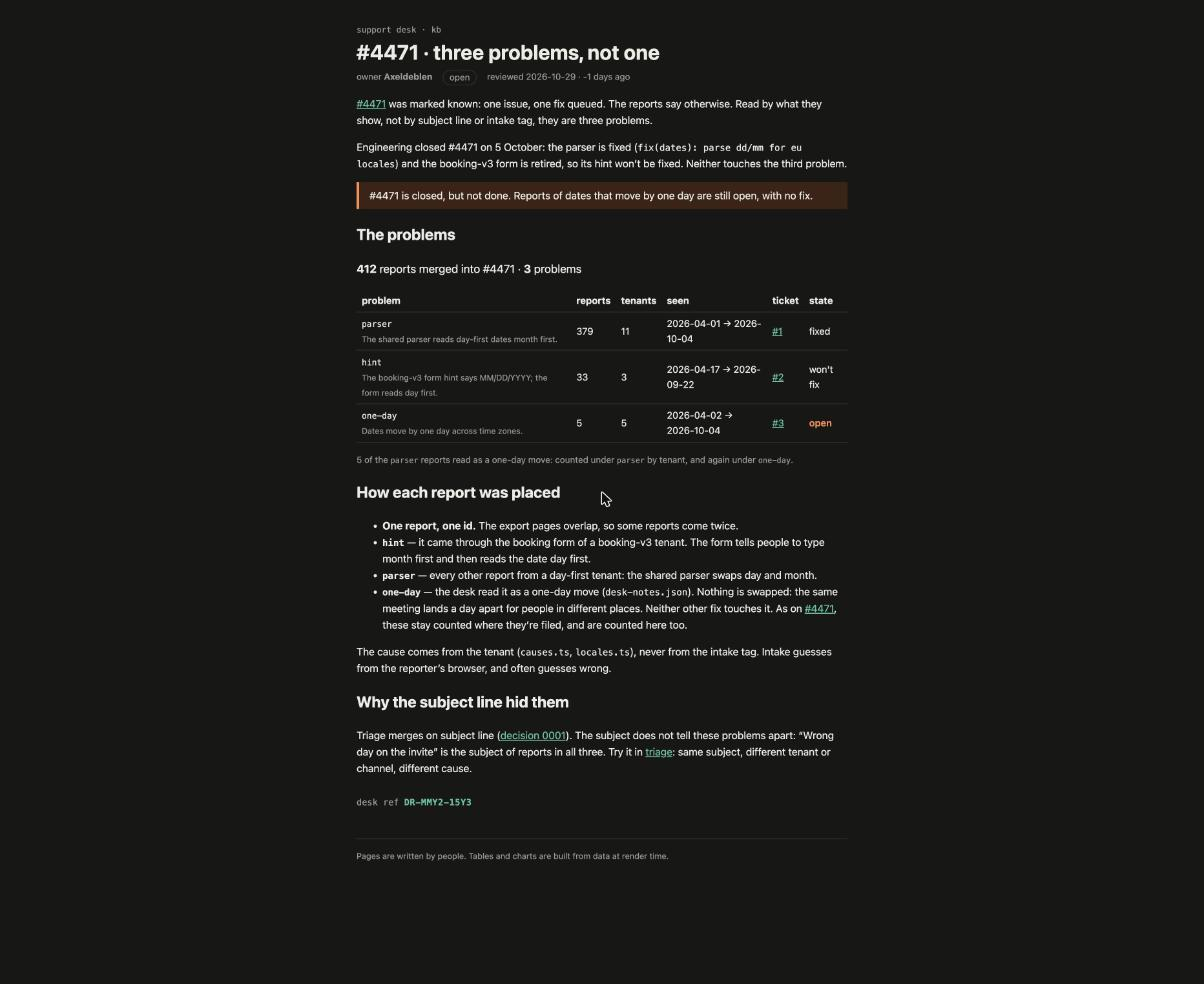
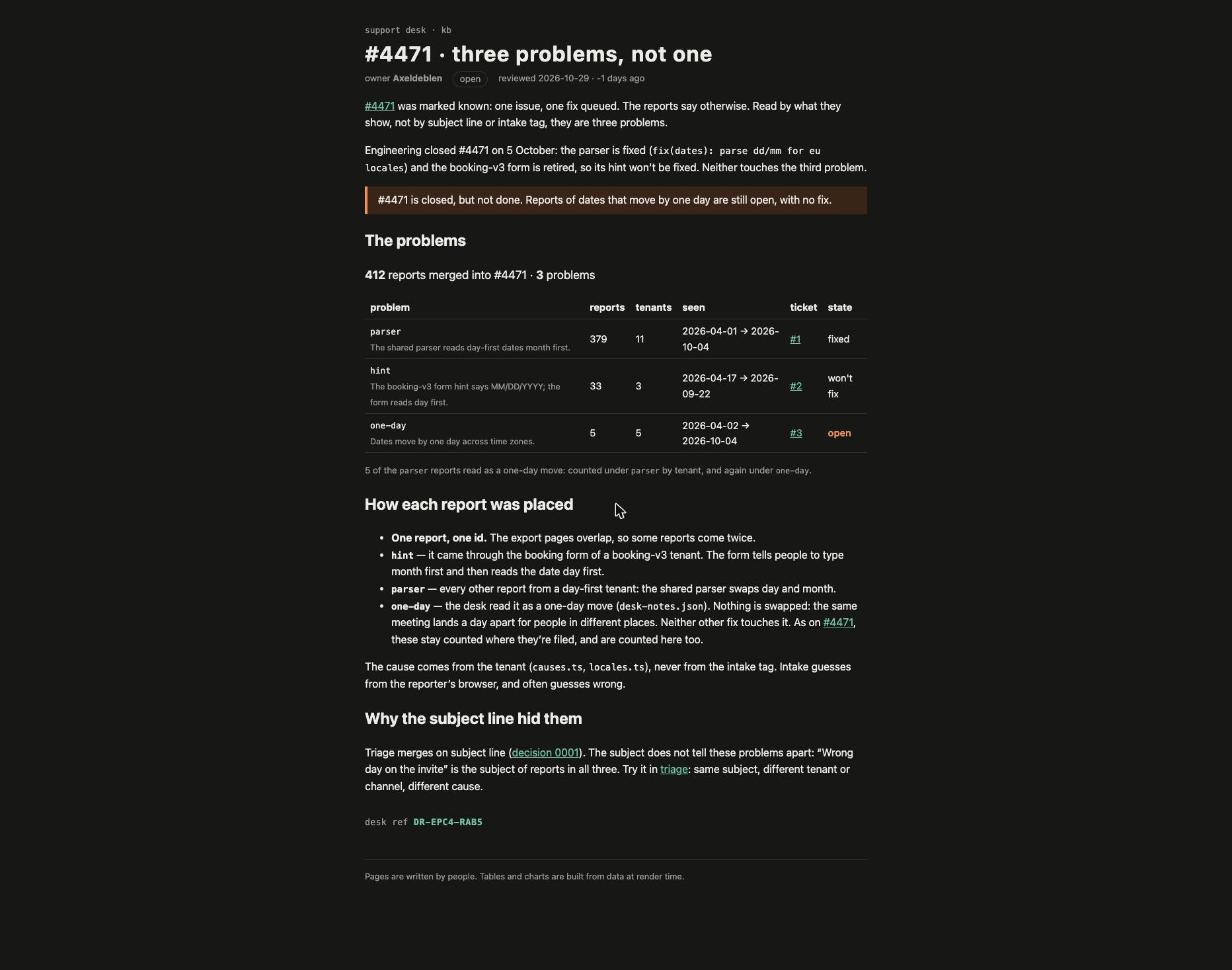
kb: sign the #4471 problems page with the course ticket (desk ref DR-EPC4-RAB5)

Changed region(s): [[0.2766, 0.0309, 0.7068, 0.9278]]

diff --git a/rendered/_app/immutable/chunks/CenRxE12.js b/rendered/_app/immutable/chunks/CenRxE12.js
@@ -1,0 +1,9 @@
+import{t as e}from"./DK3Fl9T5.js";import{E as t,F as n,H as r,I as i,K as a,L as o,N as s,O as c,R as l,S as u,T as d,U as f,W as p,_ as m,c as h,d as g,h as _,k as v,q as y,r as b,t as x,w as S}from"./BCPXOG7W.js";import{t as C}from"./BTPwLomz.js";import{n as w,t as T}from"./CVBzP17p.js";import{a as E,l as D,o as O,r as k,t as A}from"./BIy4WKJS.js";var j=t(`<br/><span class="what svelte-1op6c6"> </span>`,1),M=t(`<a> </a>`),N=t(`<tr><td class="svelte-1op6c6"><code> </code><!></td><td class="svelte-1op6c6"> </td><td class="svelte-1op6c6"> </td><td class="svelte-1op6c6"> </td><td class="svelte-1op6c6"><!></td><td> </td></tr>`),P=t(`<p class="note svelte-1op6c6"> <code> </code> reports read as a one-day move: counted under <code> </code> by tenant, and again under <code>one-day</code>.</p>`),F=t(`<p class="sum svelte-1op6c6"><strong> </strong> <strong> </strong> problems</p> <table><thead><tr><th>problem</th><th>reports</th><th>tenants</th><th>seen</th><th>ticket</th><th>state</th></tr></thead><tbody></tbody></table> <!>`,1);function I(e,t){p(t,!0);let b=r(()=>D(w).filter(e=>e.mergedInto===t.ticket)),x=r(()=>E(v(b),k)),C=r(()=>v(b).filter(e=>T.oneDayMove.includes(e.id))),A=r(()=>[...v(x).map(e=>({key:e.cause,reports:e.reports,oneDay:O(e,T.oneDayMove)})),{key:`one-day`,reports:v(C),oneDay:0}].filter(e=>e.reports.length).map(e=>{let n=e.reports.map(e=>e.receivedAt.slice(0,10)).sort();return{...e,p:t.problems.find(t=>t.key===e.key),tenants:new Set(e.reports.map(e=>e.tenant)).size,seen:`${n[0]} → ${n[n.length-1]}`}}));var I=F(),L=i(I),R=n(L),z=o(R,!0),B=l(R),V=l(B),H=o(V,!0);a(),y(L);var U=l(L,2),W=l(n(U));_(W,21,()=>v(A),e=>e.key,(e,t)=>{var r=N();let a;var d=n(r),f=n(d),p=o(f,!0),_=l(f),b=e=>{var n=j(),r=l(i(n)),a=o(r,!0);s(()=>u(a,v(t).p.what)),S(e,n)};m(_,e=>{v(t).p&&e(b)}),y(d);var x=l(d),C=o(x,!0),w=l(x),T=o(w,!0),E=l(w),D=o(E,!0),O=l(E),k=n(O),A=e=>{var n=M(),r=o(n,!0);s(e=>{h(n,`href`,v(t).p.issue),u(r,e)},[()=>v(t).p.issue.replace(/^.*\/issues\//,`#`)]),S(e,n)},P=e=>{var t=c(`no ticket yet`);S(e,t)};m(k,e=>{v(t).p?e(A):e(P,-1)}),y(O);var F=l(O);let I;var L=o(F,!0);y(r),s(()=>{a=g(r,1,`svelte-1op6c6`,null,a,{wrong:!v(t).p}),u(p,v(t).key),u(C,v(t).reports.length),u(T,v(t).tenants),u(D,v(t).seen),I=g(F,1,`svelte-1op6c6`,null,I,{open:v(t).p?.state===`open`}),u(L,v(t).p?.state??`—`)}),S(e,r)}),y(W),y(U);var G=l(U,2);_(G,17,()=>v(A),e=>e.key,(e,t)=>{var r=d(),c=i(r),f=e=>{var r=P(),i=n(r),c=l(i),d=o(c,!0),f=l(c,2),p=o(f,!0);a(3),y(r),s(()=>{u(i,`${v(t).oneDay??``} of the `),u(d,v(t).key),u(p,v(t).key)}),S(e,r)};m(c,e=>{v(t).oneDay&&e(f)}),S(e,r)}),s(()=>{u(z,v(b).length),u(B,` reports merged into #${t.ticket??``} · `),u(H,v(A).length)}),S(e,I),f()}var L=`0123456789ABCDEFGHJKMNPQRSTVWXYZ`;function R(e,t){let n=t>>>0;for(let t=0;t<e.length;t++)n^=e.charCodeAt(t),n=Math.imul(n,16777619)>>>0;return n}function z(e){let t=e.trim(),n=R(t,2166136261),r=R(t,2654435769),i=BigInt(n)<<8n|BigInt(r&255),a=``;for(let e=0;e<8;e++)a=L[Number(i&31n)]+a,i>>=5n;return`DR-${a.slice(0,4)}-${a.slice(4)}`}var B=t(`<p class="stamp svelte-1280m42">desk ref <b class="svelte-1280m42"> </b></p>`),V=t(`<p class="stamp missing svelte-1280m42">no desk ref: this page isn't signed (no <code>signature</code> in its frontmatter)</p>`);function H(e,t){p(t,!0);let a=r(()=>t.signature?z(t.signature):null);var c=d(),h=i(c),g=e=>{var t=B(),r=l(n(t)),i=o(r,!0);y(t),s(()=>u(i,v(a))),S(e,t)},_=e=>{var t=V();S(e,t)};m(h,e=>{v(a)?e(g):e(_,-1)}),S(e,c),f()}var U=e({default:()=>Q,metadata:()=>W}),W={layout:`runbook`,title:`#4471 · three problems, not one`,owner:`Axeldeblen`,status:`open`,reviewed:`2026-10-29T00:00:00.000Z`,signature:`v1.eyJzdWIiOiIyMzk1IiwiYXVkIjoiY2hhbGxlbmdlOndoYXQtaXQtc2hvd3MiLCJpYXQiOjE3OTMyMzA0MTcsImV4cCI6MTc5MzMxNjgxN30.wcQaKfctXSHnE9Sd726RsK7yAuSPlu7xaOLoRTOZqTc`},{layout:G,title:K,owner:q,status:J,reviewed:Y,signature:X}=W,Z=t(`<p><a href="/kb/incidents/4471">#4471</a> was marked known: one issue, one fix queued. The reports say otherwise.
+Read by what they show, not by subject line or intake tag, they are three problems.</p> <p>Engineering closed #4471 on 5 October: the parser is fixed (<code>fix(dates): parse dd/mm for eu locales</code>)
+and the booking-v3 form is retired, so its hint won’t be fixed. Neither touches the third problem.</p> <!> <h2>The problems</h2> <!> <h2>How each report was placed</h2> <ul><li><strong>One report, one id.</strong> The export pages overlap, so some reports come twice.</li> <li><strong><code>hint</code></strong> — it came through the booking form of a booking-v3 tenant. The form tells people to
+type month first and then reads the date day first.</li> <li><strong><code>parser</code></strong> — every other report from a day-first tenant: the shared parser swaps day and month.</li> <li><strong><code>one-day</code></strong> — the desk read it as a one-day move (<code>desk-notes.json</code>). Nothing is swapped: the
+same meeting lands a day apart for people in different places. Neither other fix touches it.
+As on <a href="/kb/incidents/4471">#4471</a>, these stay counted where they’re filed, and are counted here too.</li></ul> <p>The cause comes from the tenant (<code>causes.ts</code>, <code>locales.ts</code>), never from the intake tag. Intake
+guesses from the reporter’s browser, and often guesses wrong.</p> <h2>Why the subject line hid them</h2> <p>Triage merges on subject line (<a href="/kb/decisions/0001-dedupe-by-subject">decision 0001</a>). The subject
+does not tell these problems apart: “Wrong day on the invite” is the subject of reports in all three.
+Try it in <a href="/kb/triage/dedupe">triage</a>: same subject, different tenant or channel, different cause.</p> <!>`,1);function Q(e,t){let n=x(t,[`children`,`$$slots`,`$$events`,`$$legacy`]),r=`https://github.com/Axeldeblen/support-kb/issues`,o=[{key:`parser`,what:`The shared parser reads day-first dates month first.`,issue:`${r}/1`,state:`fixed`},{key:`hint`,what:`The booking-v3 form hint says MM/DD/YYYY; the form reads day first.`,issue:`${r}/2`,state:`won't fix`},{key:`one-day`,what:`Dates move by one day across time zones.`,issue:`${r}/3`,state:`open`}];C(e,b(()=>n,()=>W,{children:(e,t)=>{var n=Z(),r=l(i(n),4);A(r,{kind:`warn`,children:(e,t)=>{a();var n=c(`#4471 is closed, but not done. Reports of dates that move by one day are still open, with no fix.`);S(e,n)},$$slots:{default:!0}});var s=l(r,4);I(s,{ticket:4471,get problems(){return o}}),H(l(s,12),{get signature(){return X}}),S(e,n)},$$slots:{default:!0}}))}export{Q as n,U as t};

diff --git a/rendered/kb/incidents/4471/problems.html b/rendered/kb/incidents/4471/problems.html
@@ -9,11 +9,11 @@
 		<link href="../../../_app/immutable/chunks/B2Ul7l_u.js" rel="modulepreload">
 		<link href="../../../_app/immutable/chunks/BCPXOG7W.js" rel="modulepreload">
 		<link href="../../../_app/immutable/chunks/Dh1V97Jm.js" rel="modulepreload">
-		<link href="../../../_app/immutable/entry/app.CIcHf3q1.js" rel="modulepreload">
+		<link href="../../../_app/immutable/entry/app.BDaEtDko.js" rel="modulepreload">
 		<link href="../../../_app/immutable/nodes/0.C9KfiiPz.js" rel="modulepreload">
 		<link href="../../../_app/immutable/chunks/DK3Fl9T5.js" rel="modulepreload">
-		<link href="../../../_app/immutable/nodes/5.BM7tbsJA.js" rel="modulepreload">
-		<link href="../../../_app/immutable/chunks/B9Pfebdu.js" rel="modulepreload">
+		<link href="../../../_app/immutable/nodes/5.CdP6rVZZ.js" rel="modulepreload">
+		<link href="../../../_app/immutable/chunks/CenRxE12.js" rel="modulepreload">
 		<link href="../../../_app/immutable/chunks/BTPwLomz.js" rel="modulepreload">
 		<link href="../../../_app/immutable/chunks/CVBzP17p.js" rel="modulepreload">
 		<link href="../../../_app/immutable/chunks/BIy4WKJS.js" rel="modulepreload">
@@ -31,20 +31,20 @@ same meeting lands a day apart for people in different places. Neither other fix
 As on <a href="/kb/incidents/4471">#4471</a>, these stay counted where they’re filed, and are counted here too.</li></ul> <p>The cause comes from the tenant (<code>causes.ts</code>, <code>locales.ts</code>), never from the intake tag. Intake
 guesses from the reporter’s browser, and often guesses wrong.</p> <h2>Why the subject line hid them</h2> <p>Triage merges on subject line (<a href="/kb/decisions/0001-dedupe-by-subject">decision 0001</a>). The subject
 does not tell these problems apart: “Wrong day on the invite” is the subject of reports in all three.
-Try it in <a href="/kb/triage/dedupe">triage</a>: same subject, different tenant or channel, different cause.</p> <!--[0--><p class="stamp svelte-1280m42">desk ref <b class="svelte-1280m42">DR-MMY2-15Y3</b></p><!--]--><!----><!----></main> <footer class="svelte-e2jw2j">Pages are written by people. Tables and charts are built from data at render time.</footer></div><!--]--><!--]--><!--]--><!----><!--]--><!--]--><!--]--><!----> <!--[-1--><!--]--><!--]-->
+Try it in <a href="/kb/triage/dedupe">triage</a>: same subject, different tenant or channel, different cause.</p> <!--[0--><p class="stamp svelte-1280m42">desk ref <b class="svelte-1280m42">DR-EPC4-RAB5</b></p><!--]--><!----><!----></main> <footer class="svelte-e2jw2j">Pages are written by people. Tables and charts are built from data at render time.</footer></div><!--]--><!--]--><!--]--><!----><!--]--><!--]--><!--]--><!----> <!--[-1--><!--]--><!--]-->
 			
 			<script>
 				{
-					__sveltekit_qeupu9 = {
+					__sveltekit_1n8bwxp = {
 						base: new URL("../../..", location).pathname.slice(0, -1),
-						version: "1793230388486"
+						version: "1793230424007"
 					};
 
 					const element = document.currentScript.parentElement;
 
 					import("../../../_app/immutable/entry/start.CH5w6lId.js").then(async (kit) => {
-						kit.init(__sveltekit_qeupu9);
-						const app = await import("../../../_app/immutable/entry/app.CIcHf3q1.js");
+						kit.init(__sveltekit_1n8bwxp);
+						const app = await import("../../../_app/immutable/entry/app.BDaEtDko.js");
 						kit.start(app, element, {
 							node_ids: [0, 5],
 							data: [null,null],

diff --git a/rendered/_app/immutable/nodes/2.DCALvZaA.js b/rendered/_app/immutable/nodes/2.DCALvZaA.js
@@ -1,0 +1,2 @@
+import{E as e,F as t,I as n,K as r,L as i,N as a,R as o,S as s,U as c,W as l,c as u,d,h as f,i as p,k as m,q as h,r as g,t as _,w as v}from"../chunks/BCPXOG7W.js";import{n as y,r as b,t as x}from"../chunks/BTPwLomz.js";import{t as S}from"../chunks/YX22L_Ud.js";import{t as C}from"../chunks/CgeRC4yK.js";import{t as w}from"../chunks/CenRxE12.js";import{t as T}from"../chunks/BGqJVSDw.js";var E=e(`<tr><td><a> </a></td><td> </td><td> </td><td> </td></tr>`),D=e(`<table><thead><tr><th>page</th><th>owner</th><th>status</th><th>reviewed</th></tr></thead><tbody></tbody></table>`);function O(e,n){l(n,!1);let r=Object.entries(Object.assign({"/src/routes/kb/decisions/0001-dedupe-by-subject/+page.svx":S,"/src/routes/kb/incidents/4471/+page.svx":C,"/src/routes/kb/incidents/4471/problems/+page.svx":w,"/src/routes/kb/triage/dedupe/+page.svx":T})).map(([e,t])=>({href:e.replace(`/src/routes`,``).replace(`/+page.svx`,``),...t.metadata})).sort((e,t)=>e.href.localeCompare(t.href));p();var g=D(),_=o(t(g));f(_,5,()=>r,e=>e.href,(e,n)=>{var r=E(),c=t(r),l=t(c),f=i(l,!0);h(c);var p=o(c),g=i(p,!0),_=o(p),x=i(_,!0),S=o(_);let C;var w=i(S,!0);h(r),a((e,t)=>{u(l,`href`,m(n).href),s(f,m(n).title),s(g,m(n).owner),s(x,m(n).status),C=d(S,1,`svelte-tbc1ha`,null,C,{stale:e}),s(w,t)},[()=>y(m(n).reviewed)>180,()=>b(m(n).reviewed)]),v(e,r)}),h(_),h(g),v(e,g),c()}var k={layout:`runbook`,title:`Support knowledge base`,owner:`support desk`,status:`living`,reviewed:`2026-09-28T00:00:00.000Z`},{layout:A,title:j,owner:M,status:N,reviewed:P}=k,F=e(`<p>What the support desk knows, kept next to the code that knows it. One desk, every product: <code>sched-prod</code> (calendar invites for about 300k people) and the rest. When something breaks, the reports land here first.</p> <p>Start with <a href="/kb/triage/dedupe">triage</a> if you are new on the desk.</p> <h2>Pages</h2> <!> <h2>Writing a page</h2> <p>Keep the words here and the logic in <code>src/lib</code>. A number that can be computed should be
+computed by a component, not typed into a paragraph.</p>`,1);function I(e,t){let i=_(t,[`children`,`$$slots`,`$$events`,`$$legacy`]);x(e,g(()=>i,()=>k,{children:(e,t)=>{var i=F();O(o(n(i),6),{}),r(4),v(e,i)},$$slots:{default:!0}}))}export{I as component};

diff --git a/rendered/kb.html b/rendered/kb.html
@@ -9,16 +9,16 @@
 		<link href="./_app/immutable/chunks/B2Ul7l_u.js" rel="modulepreload">
 		<link href="./_app/immutable/chunks/BCPXOG7W.js" rel="modulepreload">
 		<link href="./_app/immutable/chunks/Dh1V97Jm.js" rel="modulepreload">
-		<link href="./_app/immutable/entry/app.CIcHf3q1.js" rel="modulepreload">
+		<link href="./_app/immutable/entry/app.BDaEtDko.js" rel="modulepreload">
 		<link href="./_app/immutable/nodes/0.C9KfiiPz.js" rel="modulepreload">
 		<link href="./_app/immutable/chunks/DK3Fl9T5.js" rel="modulepreload">
-		<link href="./_app/immutable/nodes/2.BI59qGlX.js" rel="modulepreload">
+		<link href="./_app/immutable/nodes/2.DCALvZaA.js" rel="modulepreload">
 		<link href="./_app/immutable/chunks/BTPwLomz.js" rel="modulepreload">
 		<link href="./_app/immutable/chunks/YX22L_Ud.js" rel="modulepreload">
 		<link href="./_app/immutable/chunks/CgeRC4yK.js" rel="modulepreload">
 		<link href="./_app/immutable/chunks/CVBzP17p.js" rel="modulepreload">
 		<link href="./_app/immutable/chunks/BIy4WKJS.js" rel="modulepreload">
-		<link href="./_app/immutable/chunks/B9Pfebdu.js" rel="modulepreload">
+		<link href="./_app/immutable/chunks/CenRxE12.js" rel="modulepreload">
 		<link href="./_app/immutable/chunks/BGqJVSDw.js" rel="modulepreload">
 		<!--e2jw2j--><!----><title>Support knowledge base · support kb</title>
 		<link href="./_app/immutable/assets/runbook.COyw0cbZ.css" rel="stylesheet">
@@ -34,16 +34,16 @@ computed by a component, not typed into a paragraph.</p><!----></main> <footer c
 			
 			<script>
 				{
-					__sveltekit_qeupu9 = {
+					__sveltekit_1n8bwxp = {
 						base: new URL(".", location).pathname.slice(0, -1),
-						version: "1793230388486"
+						version: "1793230424007"
 					};
 
 					const element = document.currentScript.parentElement;
 
 					import("./_app/immutable/entry/start.CH5w6lId.js").then(async (kit) => {
-						kit.init(__sveltekit_qeupu9);
-						const app = await import("./_app/immutable/entry/app.CIcHf3q1.js");
+						kit.init(__sveltekit_1n8bwxp);
+						const app = await import("./_app/immutable/entry/app.BDaEtDko.js");
 						kit.start(app, element, {
 							node_ids: [0, 2],
 							data: [null,null],

diff --git a/rendered/_app/immutable/entry/app.BDaEtDko.js b/rendered/_app/immutable/entry/app.BDaEtDko.js
@@ -1,0 +1,2 @@
+const __vite__mapDeps=(i,m=__vite__mapDeps,d=(m.f||(m.f=["../nodes/0.C9KfiiPz.js","../chunks/DK3Fl9T5.js","../chunks/BCPXOG7W.js","../nodes/1.mOwa9YdW.js","../chunks/Dh1V97Jm.js","./payload.DSmR2FwN.js","../nodes/2.DCALvZaA.js","../chunks/BTPwLomz.js","../assets/runbook.COyw0cbZ.css","../chunks/YX22L_Ud.js","../chunks/CgeRC4yK.js","../chunks/CVBzP17p.js","../chunks/BIy4WKJS.js","../assets/Callout.AbLv9dM_.css","../assets/_page.D56XP2ro.css","../chunks/CenRxE12.js","../assets/_page.Cy8jpuGD.css","../chunks/BGqJVSDw.js","../assets/_page.DO6Yid7X.css","../assets/2.Bt0MwIZg.css","../nodes/3.DRxPfvn3.js","../nodes/4.rt2PfD_4.js","../nodes/5.CdP6rVZZ.js","../nodes/6.sFtxrtyV.js"])))=>i.map(i=>d[i]);
+import{t as e}from"../chunks/CRzLMJPS.js";var t={},n=[()=>e(()=>import(`../nodes/0.C9KfiiPz.js`),__vite__mapDeps([0,1,2]),import.meta.url),()=>e(()=>import(`../nodes/1.mOwa9YdW.js`),__vite__mapDeps([3,2,4,5]),import.meta.url),()=>e(()=>import(`../nodes/2.DCALvZaA.js`),__vite__mapDeps([6,2,7,8,9,1,10,11,12,13,14,15,16,17,18,19]),import.meta.url),()=>e(()=>import(`../nodes/3.DRxPfvn3.js`),__vite__mapDeps([20,9,1,2,7,8]),import.meta.url),()=>e(()=>import(`../nodes/4.rt2PfD_4.js`),__vite__mapDeps([21,10,1,2,7,8,11,12,13,14]),import.meta.url),()=>e(()=>import(`../nodes/5.CdP6rVZZ.js`),__vite__mapDeps([22,15,1,2,7,8,11,12,13,16]),import.meta.url),()=>e(()=>import(`../nodes/6.sFtxrtyV.js`),__vite__mapDeps([23,17,1,2,7,8,12,13,18]),import.meta.url)],r=[],i={"/kb":[2],"/kb/decisions/0001-dedupe-by-subject":[3],"/kb/incidents/4471":[4],"/kb/incidents/4471/problems":[5],"/kb/triage/dedupe":[6]},a={handleError:(({kind:e,error:t})=>{e===`unknown`&&console.error(t)}),reroute:(()=>{}),transport:{}},o=Object.fromEntries(Object.entries(a.transport).map(([e,t])=>[e,t.decode])),s=Object.fromEntries(Object.entries(a.transport).map(([e,t])=>[e,t.encode])),c=!1,l=(e,t)=>o[e](t),u=()=>e(()=>import(`../chunks/Bjy-W4x2.js`).then(e=>e.default),[],import.meta.url);export{l as decode,o as decoders,i as dictionary,s as encoders,u as get_error_template,c as hash,a as hooks,t as matchers,n as nodes,r as server_loads};

diff --git a/rendered/kb/decisions/0001-dedupe-by-subject.html b/rendered/kb/decisions/0001-dedupe-by-subject.html
@@ -9,7 +9,7 @@
 		<link href="../../_app/immutable/chunks/B2Ul7l_u.js" rel="modulepreload">
 		<link href="../../_app/immutable/chunks/BCPXOG7W.js" rel="modulepreload">
 		<link href="../../_app/immutable/chunks/Dh1V97Jm.js" rel="modulepreload">
-		<link href="../../_app/immutable/entry/app.CIcHf3q1.js" rel="modulepreload">
+		<link href="../../_app/immutable/entry/app.BDaEtDko.js" rel="modulepreload">
 		<link href="../../_app/immutable/nodes/0.C9KfiiPz.js" rel="modulepreload">
 		<link href="../../_app/immutable/chunks/DK3Fl9T5.js" rel="modulepreload">
 		<link href="../../_app/immutable/nodes/3.DRxPfvn3.js" rel="modulepreload">
@@ -26,16 +26,16 @@ engineering merges them later.</li></ul><!----></main> <footer class="svelte-e2j
 			
 			<script>
 				{
-					__sveltekit_qeupu9 = {
+					__sveltekit_1n8bwxp = {
 						base: new URL("../..", location).pathname.slice(0, -1),
-						version: "1793230388486"
+						version: "1793230424007"
 					};
 
 					const element = document.currentScript.parentElement;
 
 					import("../../_app/immutable/entry/start.CH5w6lId.js").then(async (kit) => {
-						kit.init(__sveltekit_qeupu9);
-						const app = await import("../../_app/immutable/entry/app.CIcHf3q1.js");
+						kit.init(__sveltekit_1n8bwxp);
+						const app = await import("../../_app/immutable/entry/app.BDaEtDko.js");
 						kit.start(app, element, {
 							node_ids: [0, 3],
 							data: [null,null],

diff --git a/rendered/kb/incidents/4471.html b/rendered/kb/incidents/4471.html
@@ -9,7 +9,7 @@
 		<link href="../../_app/immutable/chunks/B2Ul7l_u.js" rel="modulepreload">
 		<link href="../../_app/immutable/chunks/BCPXOG7W.js" rel="modulepreload">
 		<link href="../../_app/immutable/chunks/Dh1V97Jm.js" rel="modulepreload">
-		<link href="../../_app/immutable/entry/app.CIcHf3q1.js" rel="modulepreload">
+		<link href="../../_app/immutable/entry/app.BDaEtDko.js" rel="modulepreload">
 		<link href="../../_app/immutable/nodes/0.C9KfiiPz.js" rel="modulepreload">
 		<link href="../../_app/immutable/chunks/DK3Fl9T5.js" rel="modulepreload">
 		<link href="../../_app/immutable/nodes/4.rt2PfD_4.js" rel="modulepreload">
@@ -29,16 +29,16 @@ first. The fix is queued.</p> <aside class="note svelte-17bri61"><!---->Known. O
 			
 			<script>
 				{
-					__sveltekit_qeupu9 = {
+					__sveltekit_1n8bwxp = {
 						base: new URL("../..", location).pathname.slice(0, -1),
-						version: "1793230388486"
+						version: "1793230424007"
 					};
 
 					const element = document.currentScript.parentElement;
 
 					import("../../_app/immutable/entry/start.CH5w6lId.js").then(async (kit) => {
-						kit.init(__sveltekit_qeupu9);
-						const app = await import("../../_app/immutable/entry/app.CIcHf3q1.js");
+						kit.init(__sveltekit_1n8bwxp);
+						const app = await import("../../_app/immutable/entry/app.BDaEtDko.js");
 						kit.start(app, element, {
 							node_ids: [0, 4],
 							data: [null,null],

diff --git a/rendered/kb/triage/dedupe.html b/rendered/kb/triage/dedupe.html
@@ -9,7 +9,7 @@
 		<link href="../../_app/immutable/chunks/B2Ul7l_u.js" rel="modulepreload">
 		<link href="../../_app/immutable/chunks/BCPXOG7W.js" rel="modulepreload">
 		<link href="../../_app/immutable/chunks/Dh1V97Jm.js" rel="modulepreload">
-		<link href="../../_app/immutable/entry/app.CIcHf3q1.js" rel="modulepreload">
+		<link href="../../_app/immutable/entry/app.BDaEtDko.js" rel="modulepreload">
 		<link href="../../_app/immutable/nodes/0.C9KfiiPz.js" rel="modulepreload">
 		<link href="../../_app/immutable/chunks/DK3Fl9T5.js" rel="modulepreload">
 		<link href="../../_app/immutable/nodes/6.sFtxrtyV.js" rel="modulepreload">
@@ -29,16 +29,16 @@ anything else.<!----></aside><!----> <h2>Try it</h2> <div class="try svelte-gq0h
 			
 			<script>
 				{
-					__sveltekit_qeupu9 = {
+					__sveltekit_1n8bwxp = {
 						base: new URL("../..", location).pathname.slice(0, -1),
-						version: "1793230388486"
+						version: "1793230424007"
 					};
 
 					const element = document.currentScript.parentElement;
 
 					import("../../_app/immutable/entry/start.CH5w6lId.js").then(async (kit) => {
-						kit.init(__sveltekit_qeupu9);
-						const app = await import("../../_app/immutable/entry/app.CIcHf3q1.js");
+						kit.init(__sveltekit_1n8bwxp);
+						const app = await import("../../_app/immutable/entry/app.BDaEtDko.js");
 						kit.start(app, element, {
 							node_ids: [0, 6],
 							data: [null,null],

diff --git a/rendered/_app/immutable/nodes/5.CdP6rVZZ.js b/rendered/_app/immutable/nodes/5.CdP6rVZZ.js
@@ -1,0 +1,1 @@
+export{n as component}from"../chunks/CenRxE12.js";
